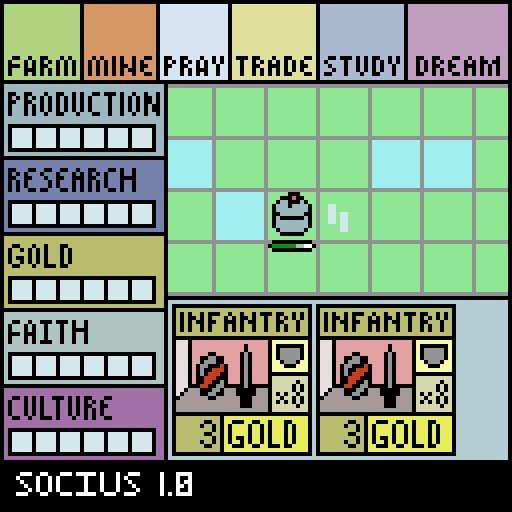
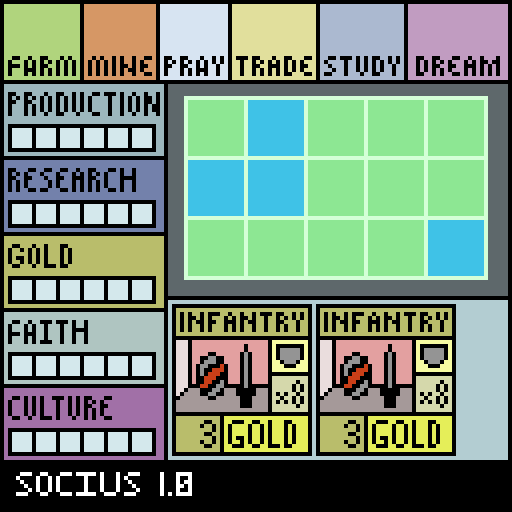
gathering food grows cities and generates new citizens

Changed region(s): [[0.3125, 0.1562, 1.0, 0.5938]]

diff --git a/lib/socius/views/city_view.rb b/lib/socius/views/city_view.rb
@@ -6,9 +6,12 @@ module Socius
     attr_accessor :city_id, :city_name
     attr_reader :farm_tally, :mine_tally, :pray_tally, :trade_tally, :study_tally, :dream_tally
 
+    attr_accessor :growth_progress
+
     belongs_to :player_view
     has_many   :job_views
 
+    # TODO render out bounding boxes so we can visually debug offset issues
     after_create {
       @farm_tally  = create_job_view(name: 'farm',  origin: coord(0,0),   dimensions: dim(80,80))
       @mine_tally  = create_job_view(name: 'mine',  origin: coord(80,0),  dimensions: dim(80,80))
@@ -21,6 +24,23 @@ module Socius
     def render(window)
       job_views.each do |job_view|
         job_view.render(window)
+      end
+
+      window.city_image.draw(304,156,1)
+
+      if growth_progress
+        anim = window.growth_meter_animation
+        progress = growth_progress
+
+
+        frame = if progress == 0.0
+                  anim.size - 1
+                else
+                  1 + ((1.0 - progress) * (anim.size-1).to_f).to_i
+                end
+        # p [ :city_view_render, growth_progress: growth_progress, growth_frame: frame, anim_size: anim.size ]
+        img = anim[frame]
+        img.draw(308,215,1,1,1)
       end
     end
 

diff --git a/lib/socius/models/city.rb b/lib/socius/models/city.rb
@@ -1,14 +1,23 @@
 module Socius
   class City < Metacosm::Model
-    attr_accessor :name
+    attr_accessor :name, :food_amount
+
     belongs_to :society
     has_many :citizens
+
     after_create do
-      2.times { create_citizen }
+      @food_amount = 0
+      3.times { create_citizen }
     end
 
     def iterate
       # TODO aggregate food + grow!
+      @food_amount += citizens.sum(:food)
+      if @food_amount >= food_required_to_grow
+        @food_amount -= food_required_to_grow
+        create_citizen
+        # emit(city_grew_event)
+      end
 
       emit(iteration_event)
     end
@@ -27,11 +36,20 @@ module Socius
       end
     end
 
+    def growth_progress
+      @food_amount / food_required_to_grow.to_f
+    end
+
+    def food_required_to_grow
+      1_000 + ((10*citizens.count) ** 2)
+    end
+
     def iteration_event
       CityIteratedEvent.create(
         city_id: self.id,
         society_id: society.id,
-        citizen_ids_by_job: citizen_jobs_ids_hash
+        citizen_ids_by_job: citizen_jobs_ids_hash,
+        growth_progress: growth_progress
       )
     end
   end

diff --git a/spec/socius_spec.rb b/spec/socius_spec.rb
@@ -56,15 +56,15 @@ describe TickCommand do
       society_id: society.id, player_id: 'player_id',
       resources: {
         production: 0, production_progress: 0.01 * citizen_count,
-        gold: 0,  gold_progress: 0.00,
-        research: 0, research_progress: 0.00,
-        faith: 0, faith_progress: 0.00,
-        culture: 0, culture_progress: 0.00
+        gold: 0,  gold_progress: 0,
+        research: 0, research_progress: 0,
+        faith: 0, faith_progress: 0,
+        culture: 0, culture_progress: 0
       }
     )
   }
 
-  let(:citizen_count) { 2 }
+  let(:citizen_count) { 3 }
 
   let(:society) { Society.last }
 

diff --git a/lib/socius/game_controller.rb b/lib/socius/game_controller.rb
@@ -79,6 +79,9 @@ module Socius
       window.production_cell_animation = Gosu::Image::load_tiles("media/production_cell.png", 32, 32)
       window.citizen_image = Gosu::Image.new("media/citizen.png")
 
+      window.city_image = Gosu::Image.new("media/tower.png")
+      window.growth_meter_animation = Gosu::Image.load_tiles("media/growth_meter.png", 56,12)
+
       window.cursor = Gosu::Image.new("media/cursor.png")
       p [ :asset_load_complete, elapsed: (Time.now-t0) ]
     end

diff --git a/lib/socius/listeners/city_iterated_event_listener.rb b/lib/socius/listeners/city_iterated_event_listener.rb
@@ -1,7 +1,8 @@
 module Socius
   class CityIteratedEventListener < Metacosm::EventListener
-    def receive(society_id:,city_id:,citizen_ids_by_job:)
+    def receive(society_id:,city_id:,citizen_ids_by_job:,growth_progress:)
       city_view = CityView.find_by(city_id: city_id)
+      city_view.update growth_progress: growth_progress
       # p [ citizen_ids_by_job: citizen_ids_by_job ]
       update_job_tallies(city_view, citizen_ids_by_job || {})
     end

diff --git a/lib/socius/models/game.rb b/lib/socius/models/game.rb
@@ -23,11 +23,7 @@ module Socius
 
     def pickup(citizen)
       self.currently_held_citizen = citizen
-
-      # don't want them to count/produce while being held
       self.currently_held_citizen.job_id = nil
-
-      # p [ :pickup, citizen_count: 
 
       emit(CitizenPickedUpEvent.create(game_id: self.id))
     end

diff --git a/lib/socius/game_window.rb b/lib/socius/game_window.rb
@@ -2,6 +2,7 @@ module Socius
   class GameWindow < Gosu::Window
     attr_accessor :width, :height, :font
     attr_accessor :production_cell_animation, :citizen_image, :cursor
+    attr_accessor :city_image, :growth_meter_animation
     attr_accessor :background_image
     attr_accessor :controller
 

diff --git a/lib/socius/views/job_view.rb b/lib/socius/views/job_view.rb
@@ -12,7 +12,7 @@ module Socius
     def render(window)
       if citizen_count && citizen_count > 0
         citizen_count.times do |i|
-          window.citizen_image.draw(origin.x + 4*i,origin.y,0)
+          window.citizen_image.draw(origin.x + 16*i,origin.y,0)
         end
       end
     end

diff --git a/lib/socius/events/city_iterated_event.rb b/lib/socius/events/city_iterated_event.rb
@@ -1,5 +1,5 @@
 module Socius
   class CityIteratedEvent < Metacosm::Event
-    attr_accessor :society_id, :city_id, :citizen_ids_by_job
+    attr_accessor :society_id, :city_id, :citizen_ids_by_job, :growth_progress
   end
 end
